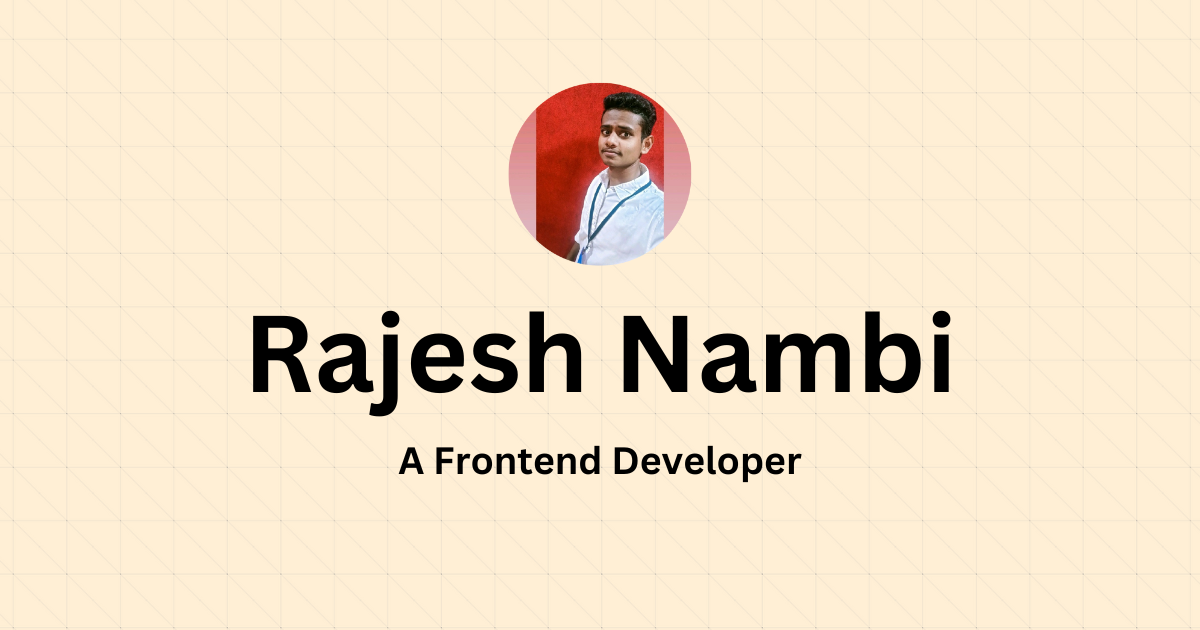
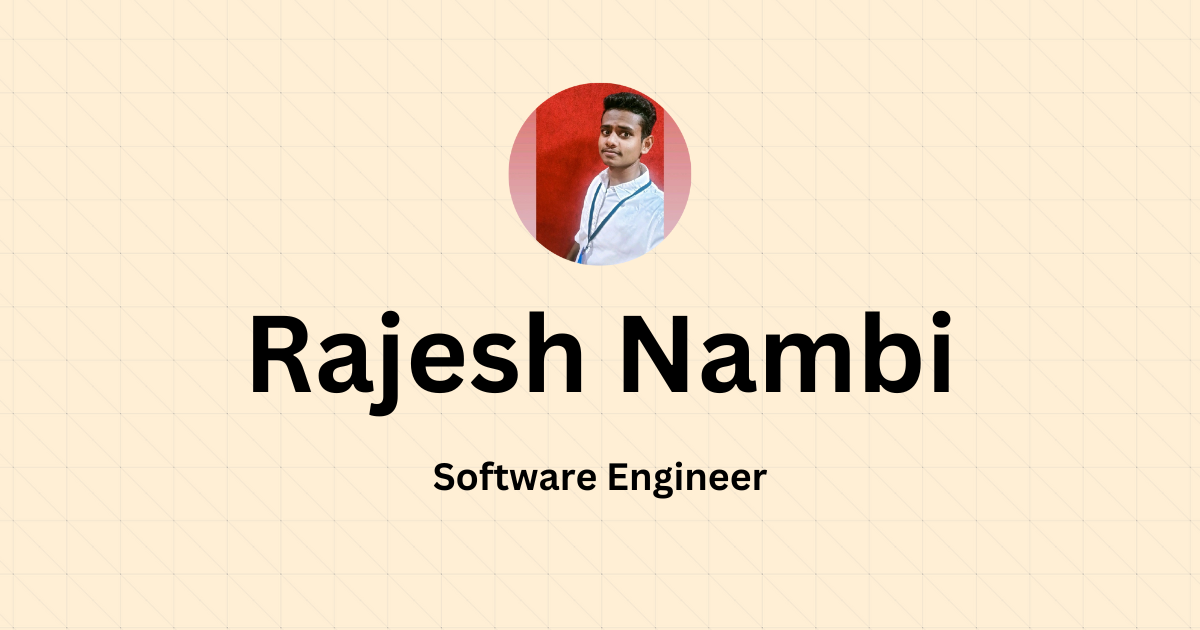
Updates

Changed region(s): [[0.3083, 0.6937, 0.6783, 0.7841]]

diff --git a/src/Hero.jsx b/src/Hero.jsx
@@ -28,7 +28,7 @@ const Hero = ({
       <div className="hero">
         <img src={pfp} className="pfp" alt="Profile"></img>
         <h1>Rajesh Nambi</h1>
-        <p className="heroabout"> A Frontend Developer</p>
+        <p className="heroabout"> A Software Engineer</p>
         <div className="buttons">
           <Button
             onClick={() => scrollToSection(aboutRef)}
